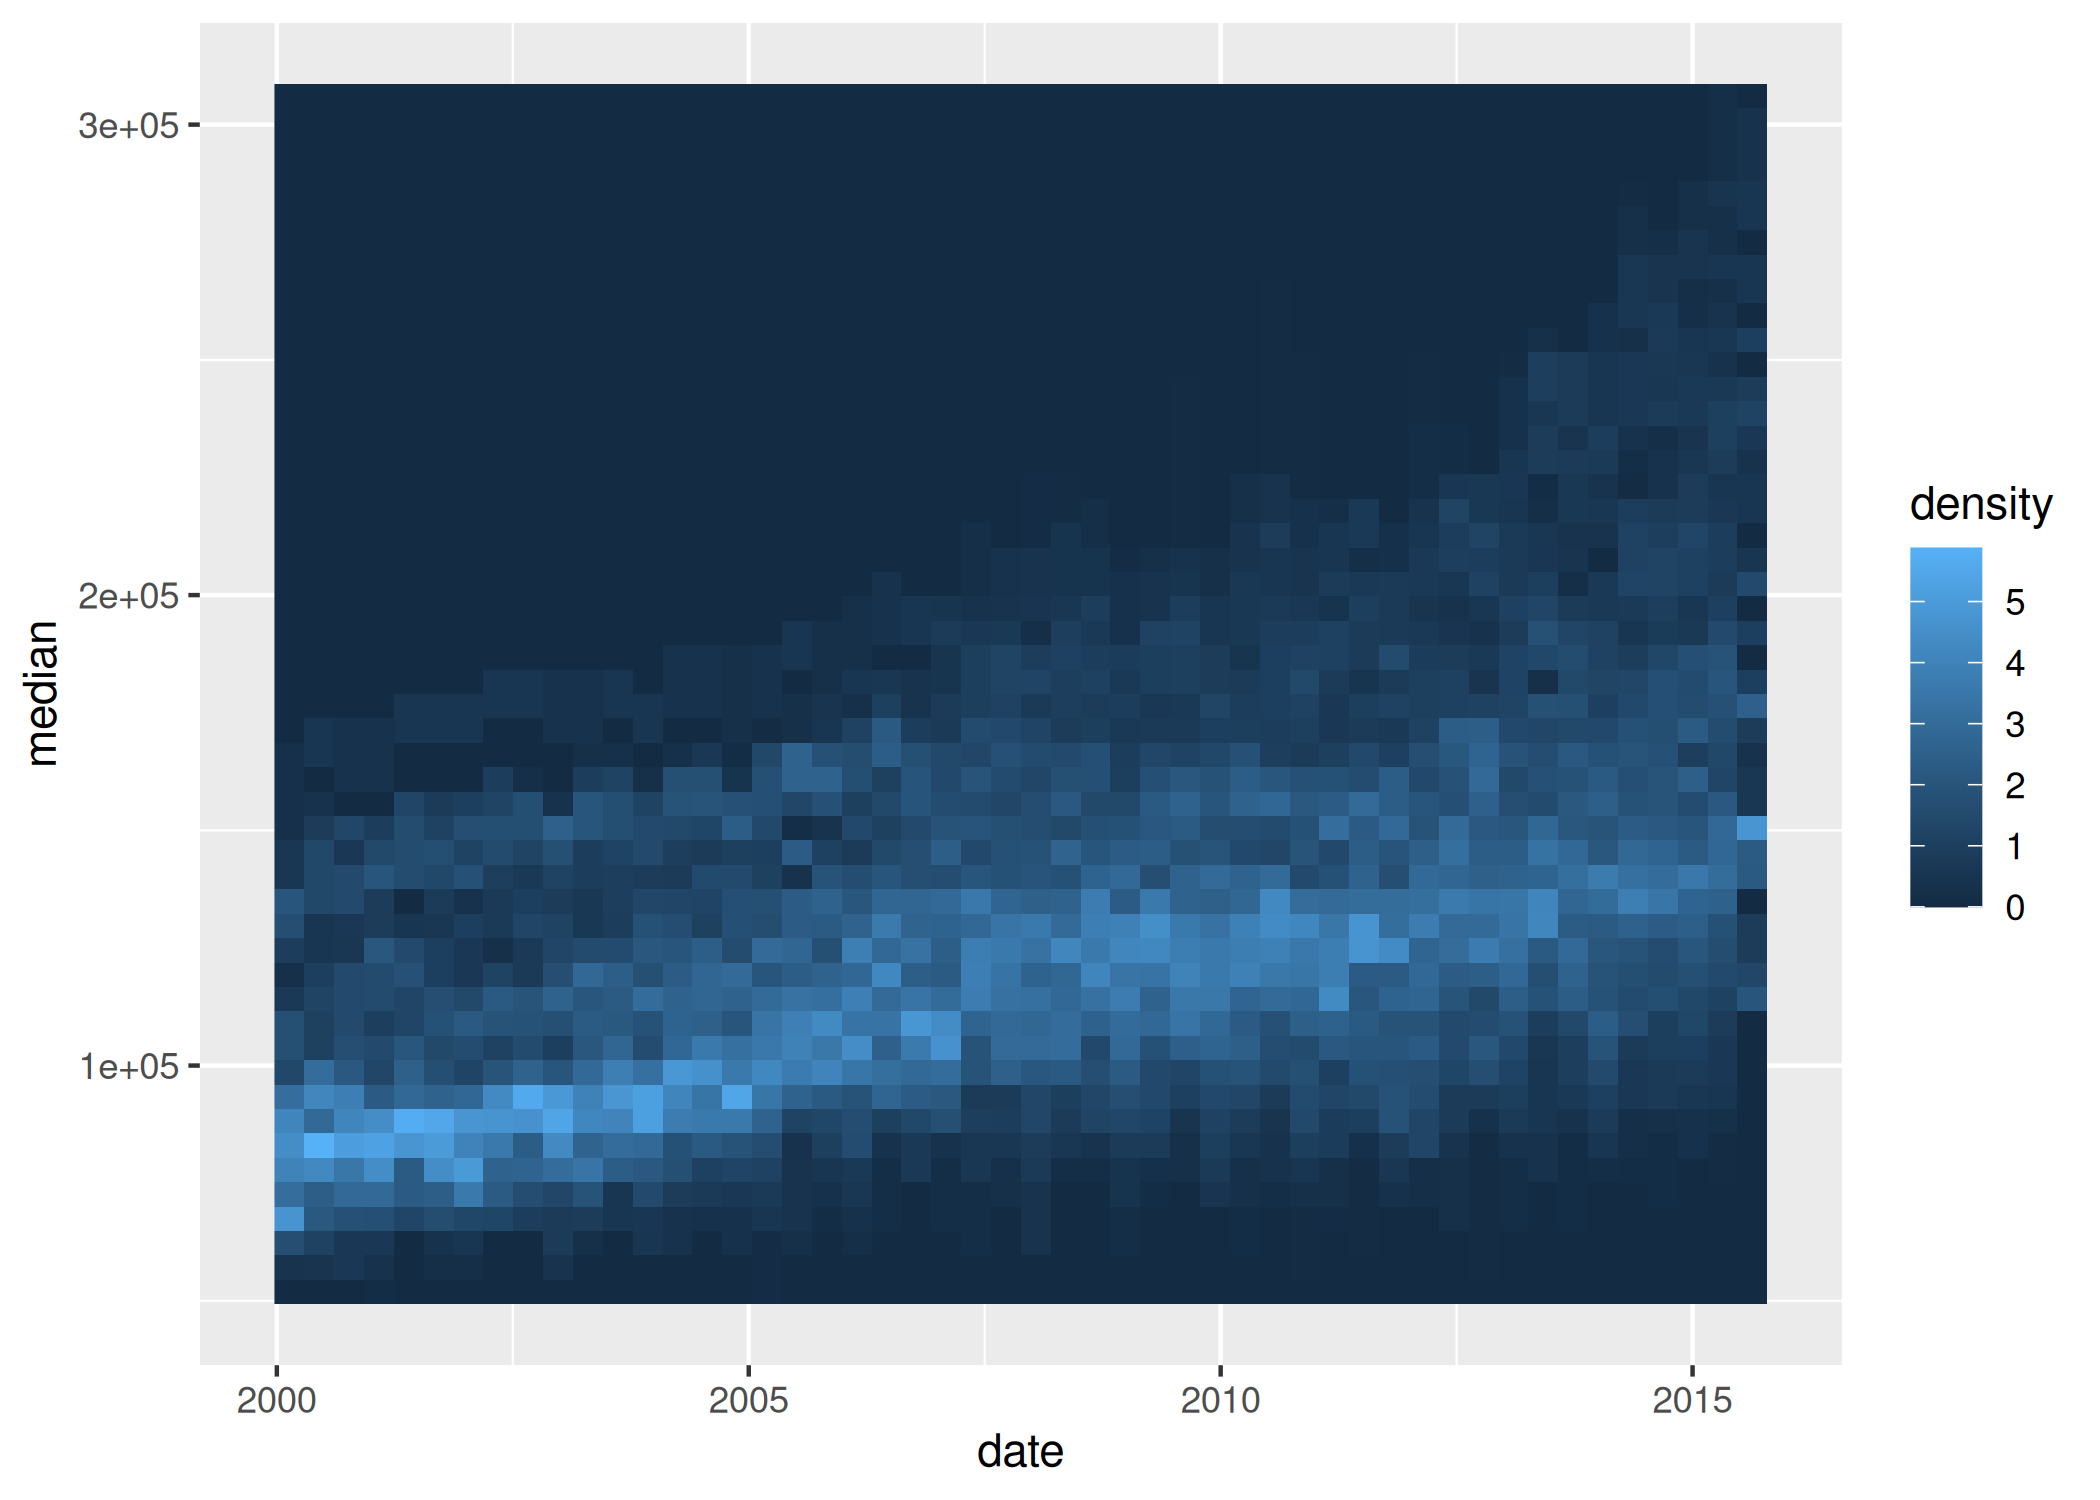
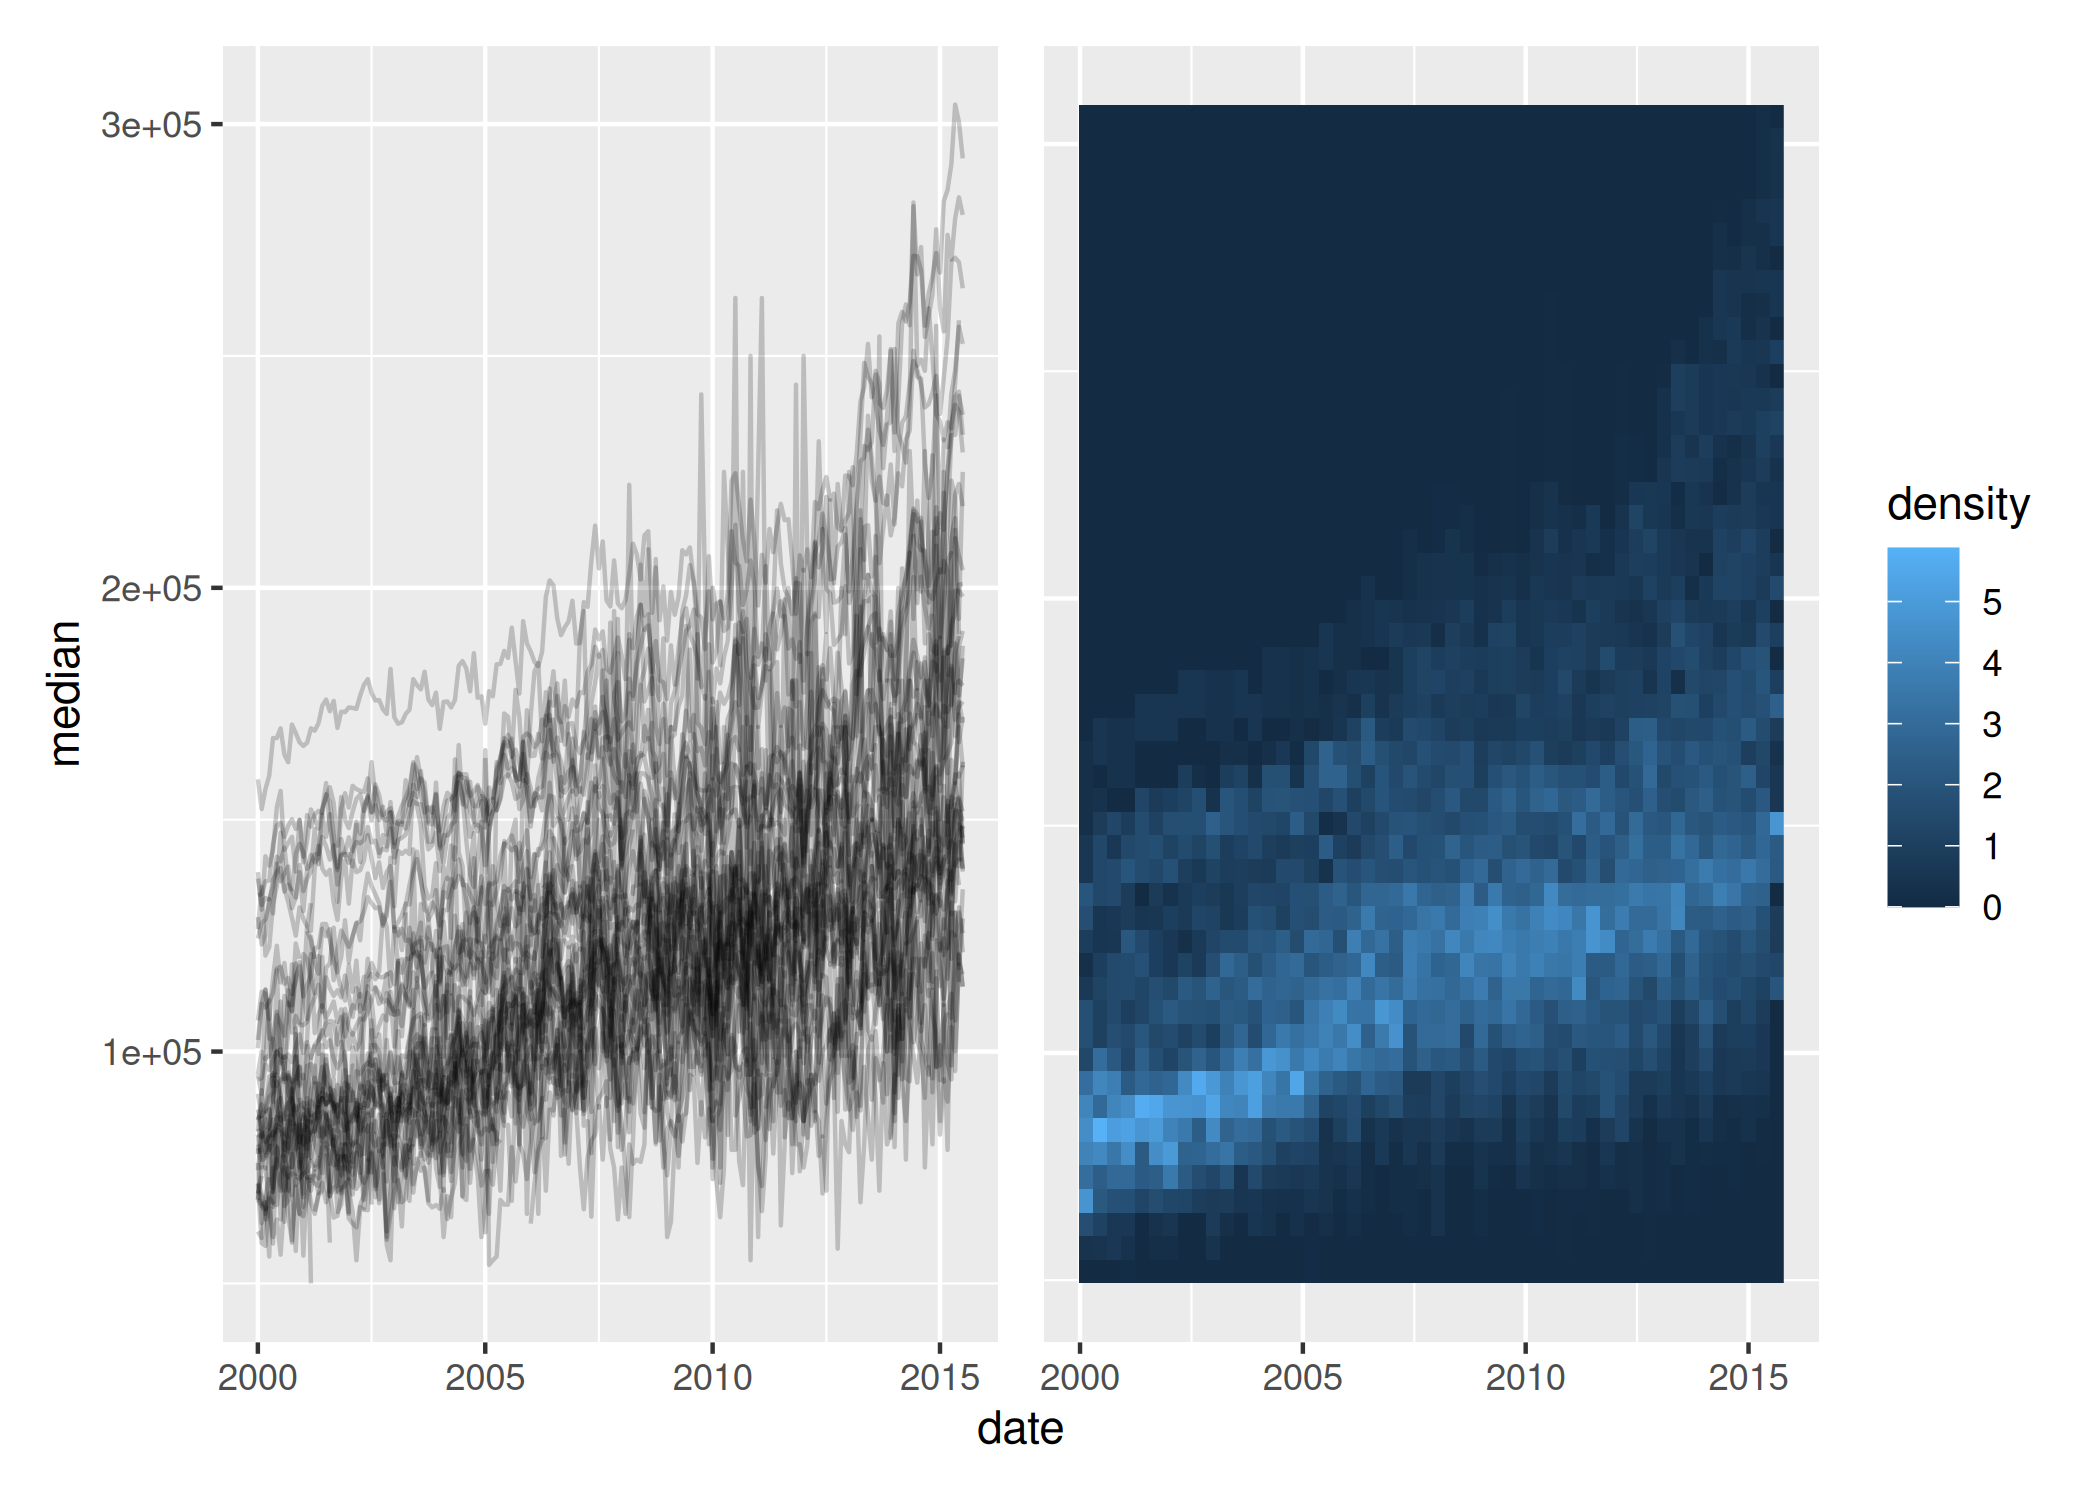
Update README

diff --git a/README.md b/README.md
@@ -38,9 +38,12 @@ heatmap:
 ``` r
 library(ggplot2)
 library(gglinedensity)
+library(patchwork)
 
-ggplot(txhousing, aes(date, median, group = city)) +
-  stat_line_density(bins = 50, drop = FALSE, na.rm = TRUE)
+p <- ggplot(txhousing, aes(date, median, group = city))
+lines <- p + geom_line(alpha = 0.2, na.rm = TRUE)
+heatmap <- p + stat_line_density(bins = 50, drop = FALSE, na.rm = TRUE)
+lines + heatmap + plot_layout(axes = "collect")
 ```
 
 <img src="man/figures/README-line-1.png" width="100%" />
